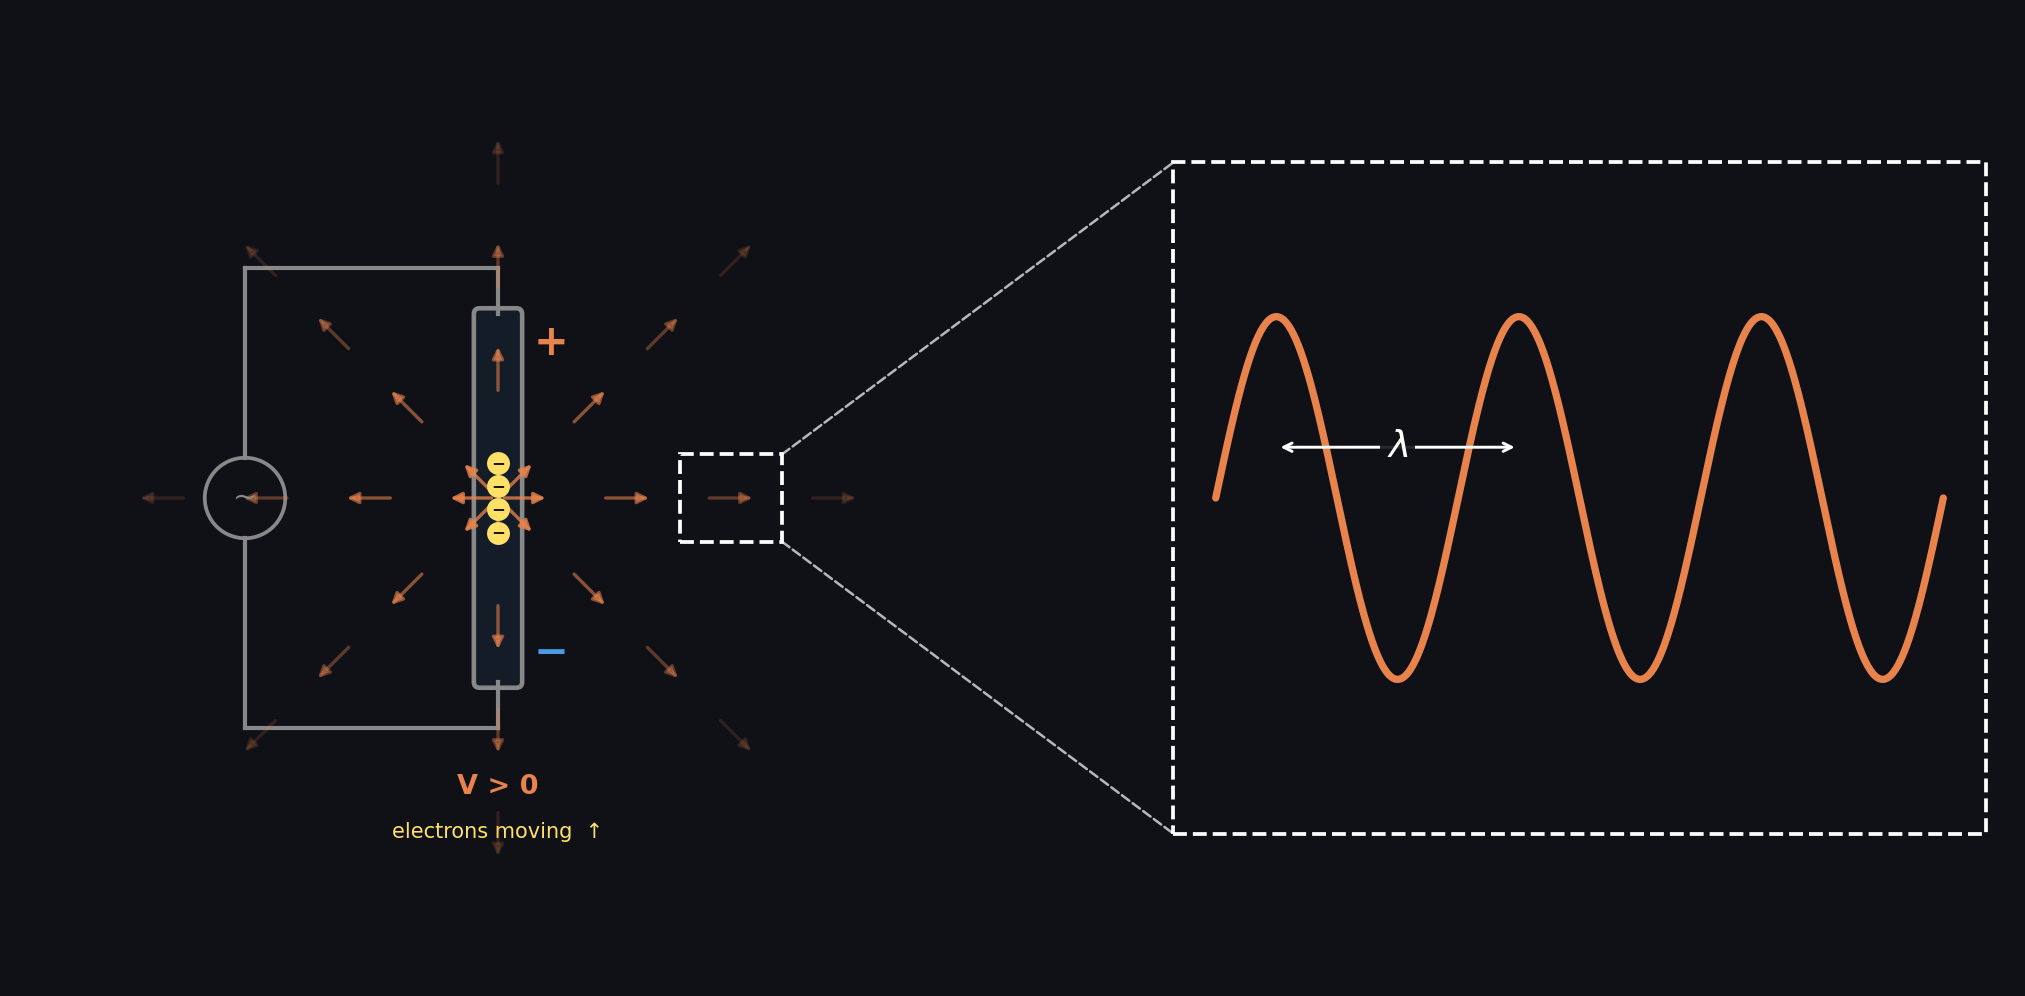
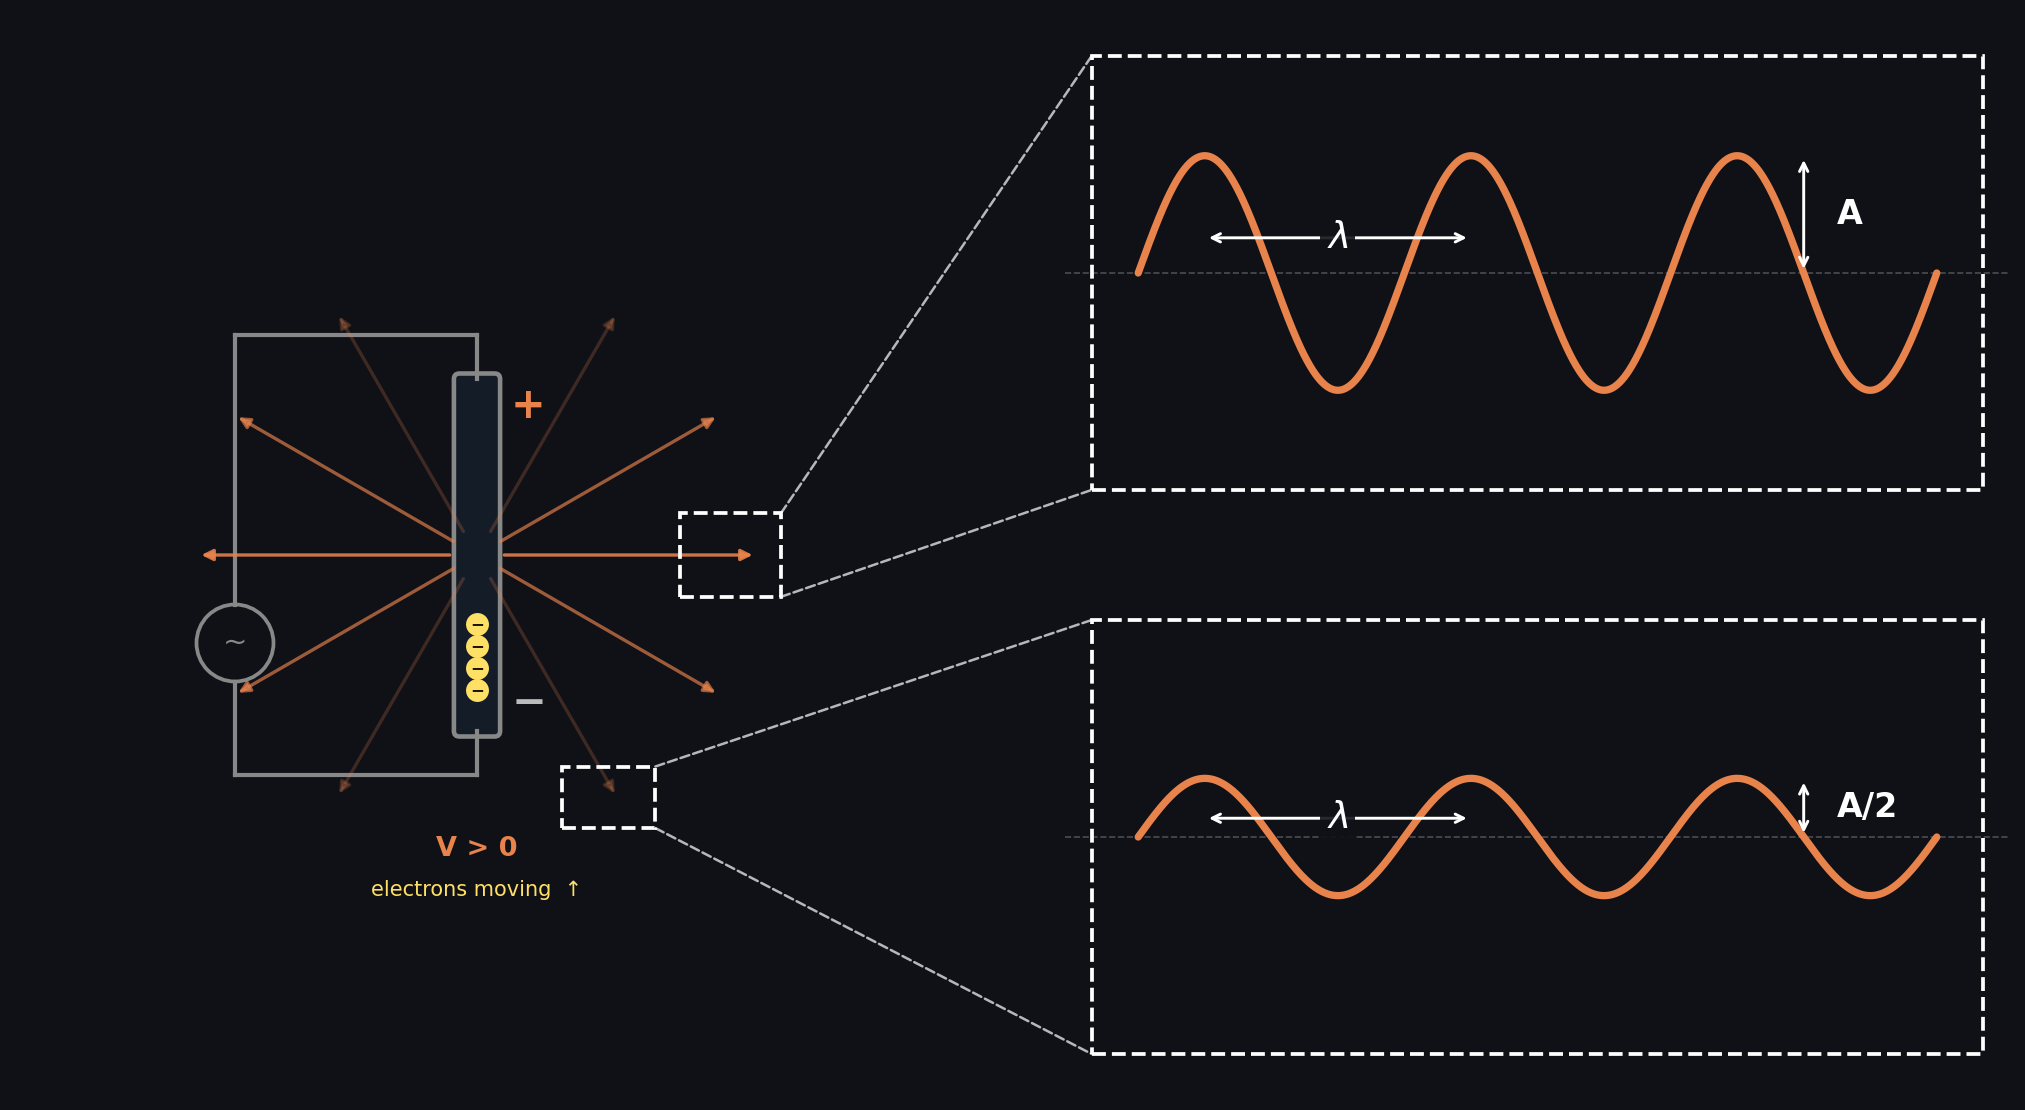
Updated some visuals in section 1 and 2 for the radar post.

diff --git a/source/_posts/mmWave_Radar.md b/source/_posts/mmWave_Radar.md
@@ -33,7 +33,7 @@ In the radar, we use a voltage to generate an electric field that accelerate ele
 
 These electromagnetic waves we produce for the radar have much longer $\lambda$, usually around 5 millimeters ish ($10^{-3}\ \text{m}$). Electromagnetic waves at this level carry less energy and we cannot see them with our eyes. They are called mmWaves.
 
-The animation below shows how these electromagnetic waves are generated. 
+The animation below shows how these electromagnetic waves can be generated. 
 
   <figure>
     <img src="em_radiation.gif" alt="Oscillating voltage generates electromagnetic waves.">
@@ -42,7 +42,7 @@ The animation below shows how these electromagnetic waves are generated.
     </figcaption>
   </figure>
 
-And... Let's zoom in on one of them to see their wavy nature.
+And... Let's zoom in on some of them to see their wavy nature. Also note that the electromagnetic waves produced this way have less amplitude A along some dircetions. 
 
   <figure>
     <img src="em_wave_zoom.png" alt="A zoomed-in view on one of the EM rays.">
@@ -51,7 +51,7 @@ And... Let's zoom in on one of them to see their wavy nature.
     </figcaption>
   </figure>
 
-The mmWave we generate this way is essentially the same matter as visible lights, just more spread out (longer $\lambda$) and carries lower energy. 
+At the end of the day, the mmWave we generate here is essentially the same matter as visible lights, just more spread out (longer $\lambda$) and carries lower energy. 
 
 Whenever I think of electromagnetic waves, I picture them in my head just as visible light rays. This mind model makes me feel more comfortable since I am more faimiliar with visible lights. 
 
@@ -197,7 +197,7 @@ We can then represent the event clearly using a straight vertical line that look
 
 Notice 2 things. 
 
-First, see how I have normalized the +10V and -10V into a range that goes from +Max to -Max? We can actually describe these boundaries with +1 and -1.
+First, see how I have normalized the +10V and -10V into a range that goes from +Max to -Max? We can describe these boundaries with +1 and -1 for now.
 
 If we do that, it will be not so hard to see, that the verticle line is just the y-component in the unit circle, which is governed by this relationship: Y(t) = Voltage(t) = $\sin(\omega t)$.
 
